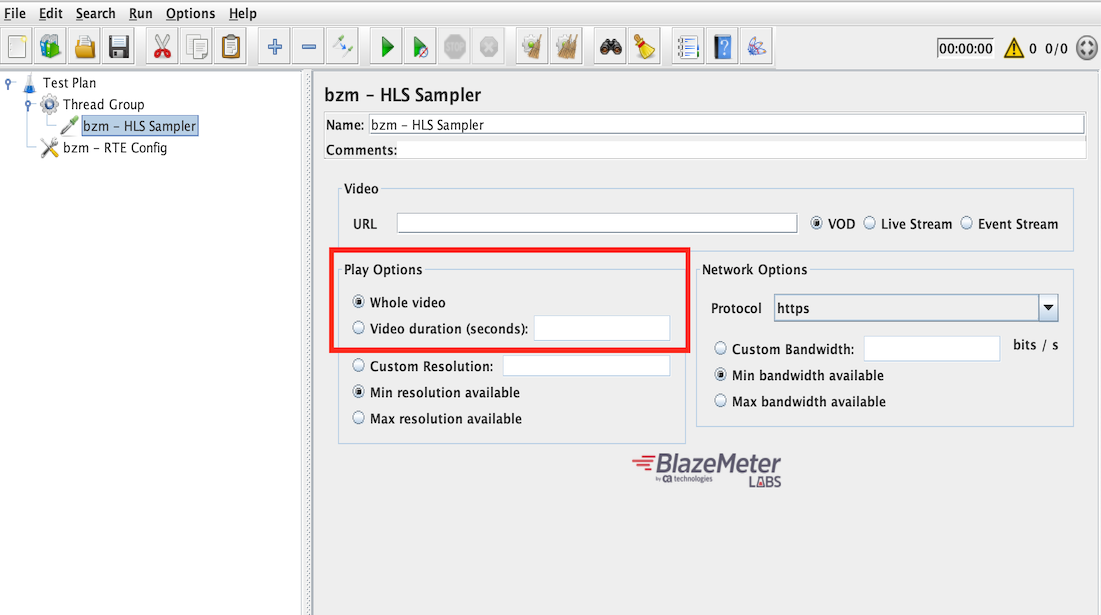
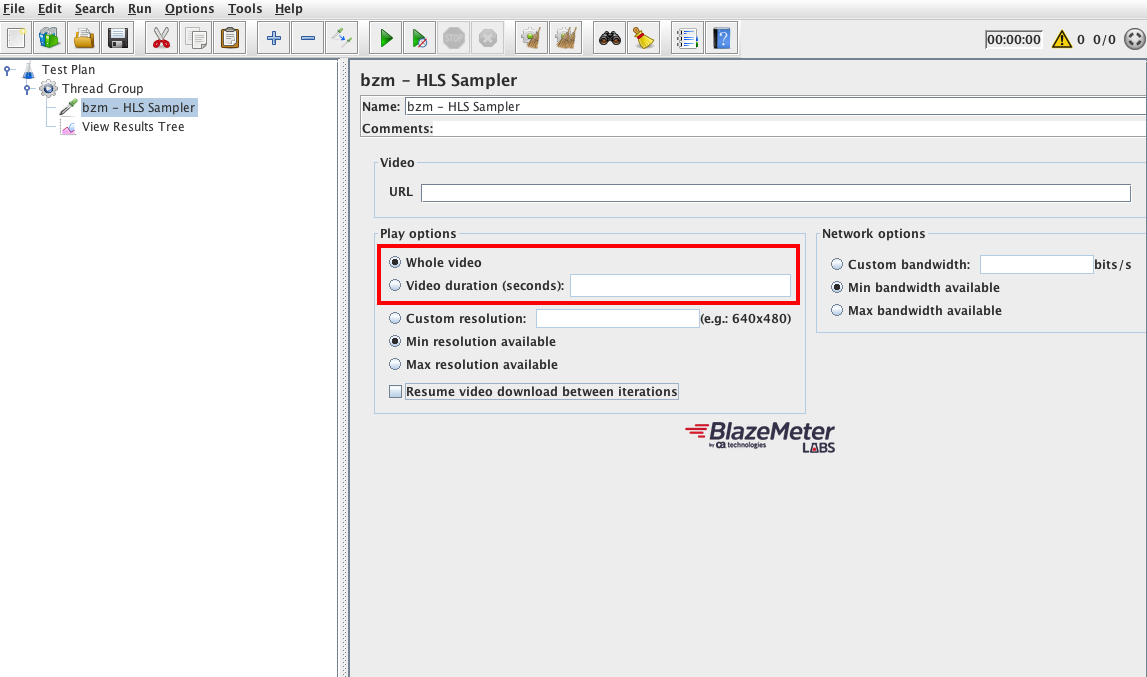
Updated photos and comments on the readme file

diff --git a/README.md b/README.md
@@ -83,9 +83,16 @@ After selecting the desired bandwidth you can select a resolution to simulate yo
 
 ![](docs/HLSResolution.png)
 
+
+#### Resume video downloads
+
+After selecting all the desired configurations, the "Resume video downloads between iterations" checkbox will allow that, between each iteration of the sampler's download, the resumed download will start right after the last downloaded segment.
+
+![](docs/HLSResumeVideo.png)
+
 ## Results
 
-You can set listeners to evaluate the results of your tests. The View Results Tree Listener displays the HLS Hierarchy, so you can inspect how the requests and responses worked.
+You can set listeners to evaluate the results of your tests. The View Results Tree Listener displays the resultant samplers for the HLS request so, you can inspect how the requests and responses worked. It will display each one of the samplers with the name of the type it downloaded (Master Playlist, Media Playlist or segment followed by sequential number) to identify them.
 
 ![](docs/HLSResults.png)
 
